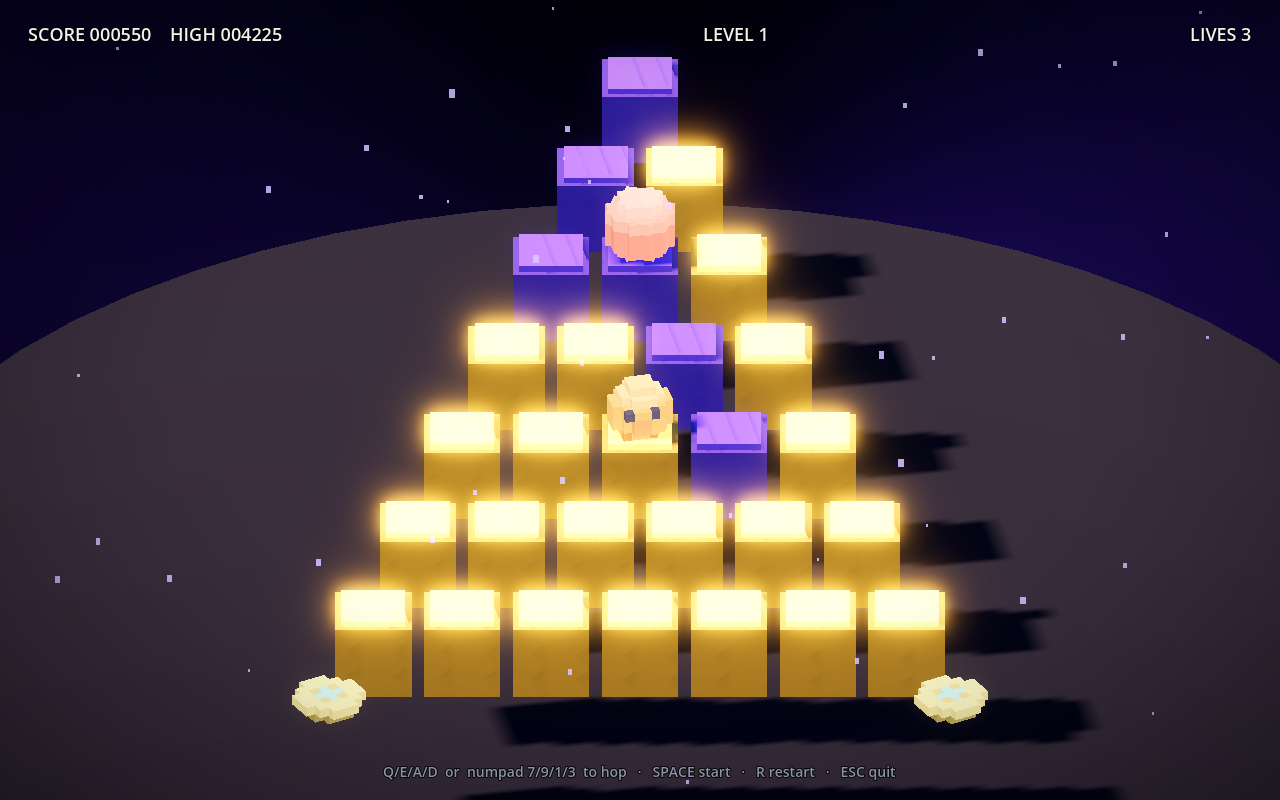
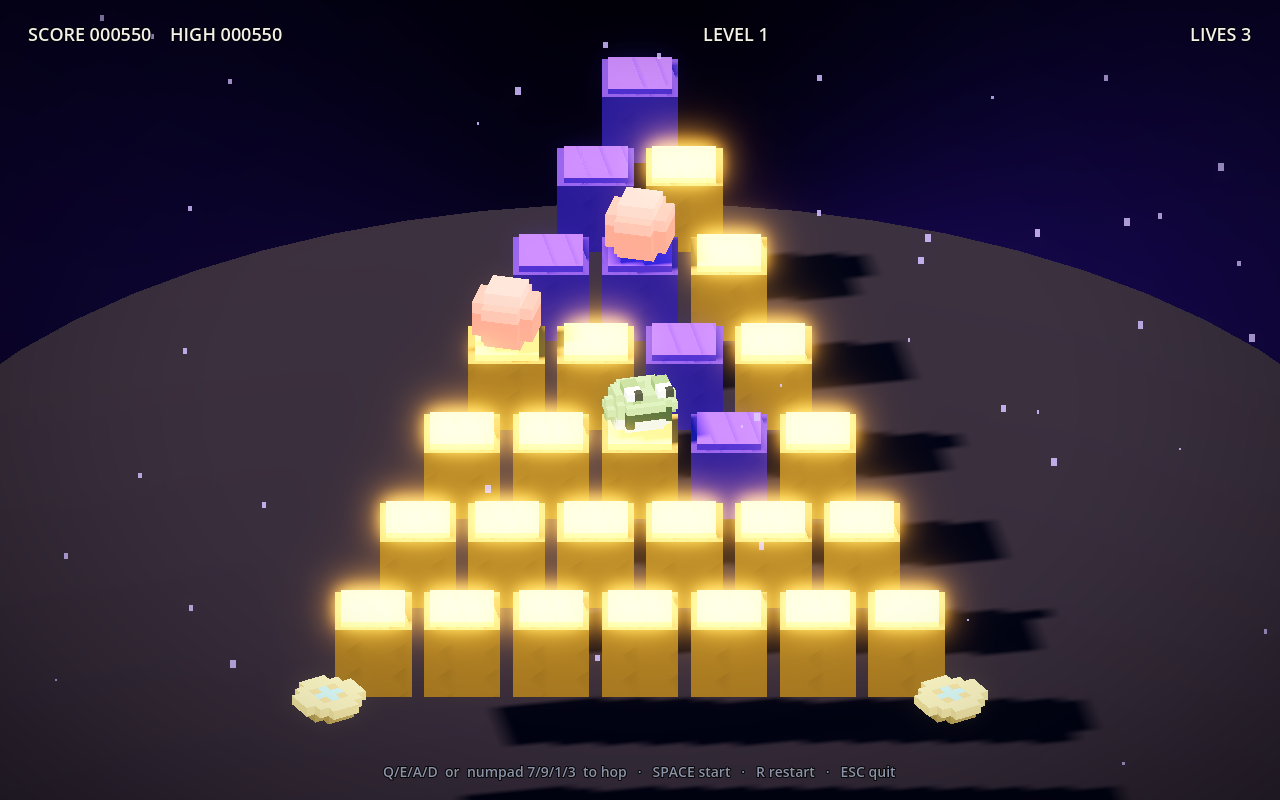
Rename to Bullfrog Blox; the player is now a big fat bullfrog
- New voxel frog: wide ellipsoid body, pale belly, eyes on top, wide mouth,
  haunches and feet, painted onto the outer surface of the blob
- Project/repo/HUD/save-file names updated; icon recoloured
- README and guided tour updated with the new cast

Changed region(s): [[0.3438, 0.3438, 0.4688, 0.4688], [0.4688, 0.4688, 0.5625, 0.5625], [0.1875, 0.0312, 0.2188, 0.0625]]

diff --git a/docs/LEARNING.md b/docs/LEARNING.md
@@ -1,4 +1,4 @@
-# A guided tour of Voxel Q*bert
+# A guided tour of Bullfrog Blox
 
 This is the "why", not the "what". The code is commented file by file; this
 document is for reading end to end, ideally with `scripts/game.gd` open in
@@ -12,7 +12,7 @@ here was solved in the rule layer, where a headless test could check it.
 
 ## 1. The board is a plane of coordinates, not a grid of tiles
 
-Q*bert's pyramid looks like 28 cubes arranged in a triangle. The tempting model
+The board looks like 28 cubes arranged in a triangle. The tempting model
 is a 2D array: row 0 has 7 cubes, row 1 has 6, and so on. The problem starts the
 moment you need to ask "what is one hop down-left from here?" — in a ragged 2D
 array that question has a different answer on every row, and the edge cases
@@ -262,7 +262,7 @@ findable with a pixel sample instead of an opinion.
 **Colour was being destroyed by a plane that should not have existed.** A large
 additive "ground glow" plane sat under the board to ground it. At this camera
 angle the plane's near edge is *closer than the board*, so it blended violet
-over the entire frame — orange characters came out pink. The giveaway was a
+over the entire frame — the green frog came out pink. The giveaway was a
 measurement: an unshaded material set to `(1.0, 0.5, 0.1)` rendered as
 `#ffaeb0`. Hiding one node fixed it. The glow now lives in the sky shader, which
 is infinitely far away and therefore can only ever be behind things.
@@ -271,9 +271,10 @@ is infinitely far away and therefore can only ever be behind things.
 turning into flat `#848d9b`. In an orthographic scene everything is at the same
 depth, so fog adds no depth cue at all — it just washes the image. It is off.
 
-**Physically-lit characters lose their palette.** An orange voxel lit by a warm
-key plus a blue fill comes out beige: the red channel clips first, the tonemapper
-desaturates the highlight, and the character stops reading as "orange". The cast
+**Physically-lit characters lose their palette.** A saturated voxel lit by a
+warm key plus a blue fill comes out beige: the strongest channel clips first, the
+tonemapper desaturates the highlight, and the character stops reading as its own
+colour. The cast
 is now *unshaded* with the lighting baked into the vertex colours (the
 `shade` factors in `VoxelBuilder`), which is also how a lot of stylised voxel art
 is made. They still cast shadows into the world, so they sit in the scene even
@@ -298,4 +299,4 @@ visible grain, no new shape information — so it is off on purpose.
   to match. The coordinate layer does not care; this is purely a mapping between
   keys and `Board.DIRECTIONS`.
 * **Export a build.** Add an `export_presets.cfg` for Linux/Windows and check
-  that `user://voxel_qbert.cfg` still lands somewhere writable.
+  that `user://bullfrog_blox.cfg` still lands somewhere writable.

diff --git a/README.md b/README.md
@@ -1,8 +1,9 @@
-# Voxel Q*bert
+# Bullfrog Blox
 
-A Q*bert clone written from scratch in Godot 4: 28 cubes, four diagonal hops,
-red balls, a snake that hunts you down, and two spinning discs that carry you
-back to the top.
+A voxel arcade hopper written from scratch in Godot 4, in the tradition of the
+1982 classic *Q*bert*: a very large bullfrog paints a 28-cube pyramid by hopping
+across it, while red balls, a green nuisance and a snake that hunts it down try
+to knock it off. Two spinning discs carry it back to the top.
 
 Every model is a voxel grid built in code, every sound is a square wave
 generated at startup, and there is not a single imported model, texture or audio
@@ -10,14 +11,19 @@ file in the repository — it is source only.
 
 ![The board mid-round](docs/board.png)
 
+The cast, left to right: the bullfrog, a red ball, Coily's egg, the snake, and an
+escape disc (all built from code, all in `scripts/voxel_models.gd`):
+
+![The cast](docs/cast.png)
+
 ## Play
 
 Requires [Godot 4.7](https://godotengine.org/download) (a plain install is
 enough; no .NET build, no plugins).
 
 ```bash
-git clone https://github.com/mg4466/qbert-voxel.git
-cd qbert-voxel
+git clone https://github.com/mg4466/bullfrog-blox.git
+cd bullfrog-blox
 godot --headless --import     # once: builds Godot's script class cache
 godot --path .
 ```
@@ -74,7 +80,7 @@ Hop on every cube to paint it the target colour before the enemies get you.
 | Kill Coily with a disc | 500 |
 | Clear a round | 1000 + 250 per level |
 
-The high score is saved to the Godot user directory (`user://voxel_qbert.cfg`).
+The high score is saved to the Godot user directory (`user://bullfrog_blox.cfg`).
 
 ## Tests
 
